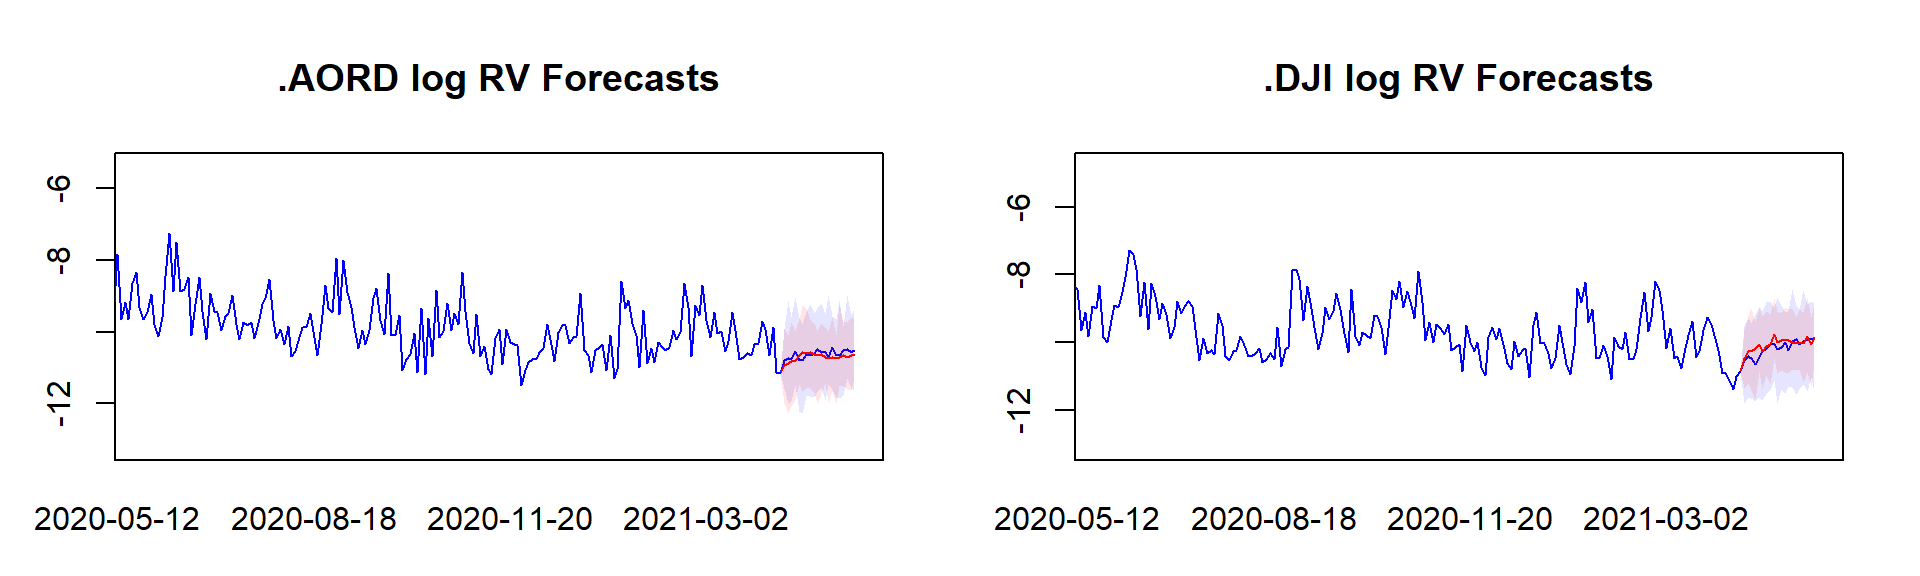
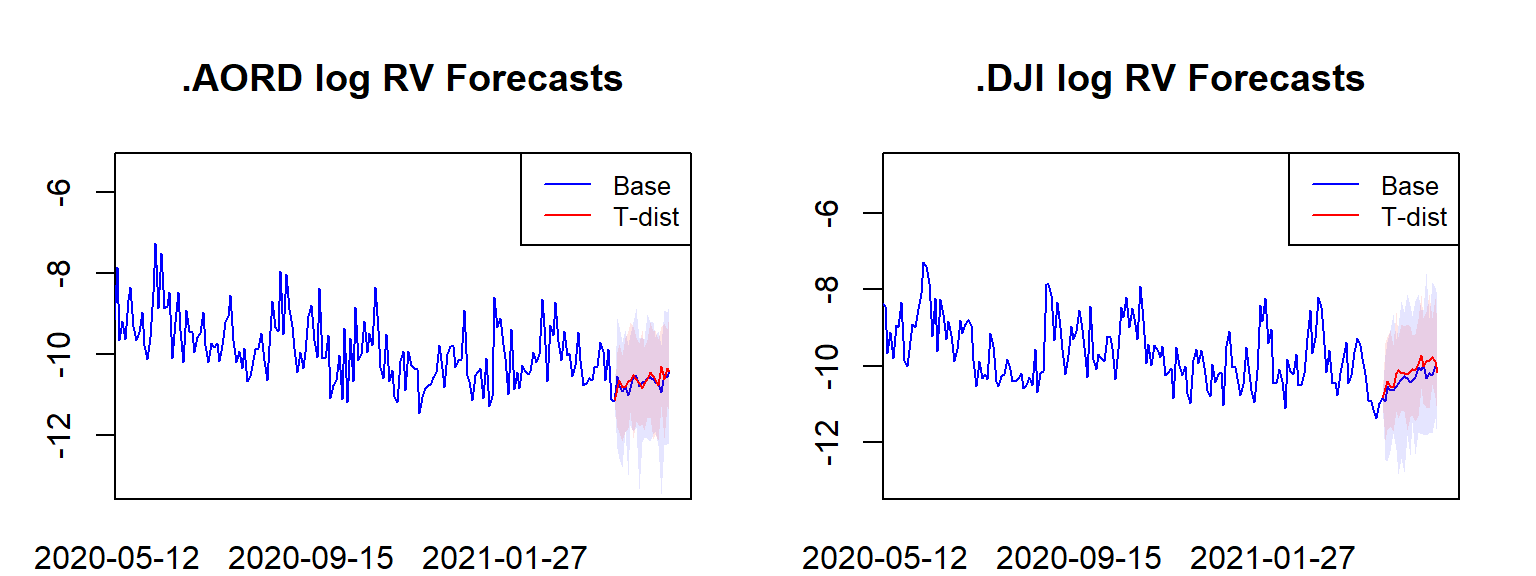
docs - forecast plots, conclusion

diff --git a/docs/index.html b/docs/index.html
@@ -183,7 +183,7 @@ code span.wa { color: #60a0b0; font-weight: bold; font-style: italic; } /* Warni
   <li><a href="#gibbs-sampler-estimation-of-t-distribution-model" id="toc-gibbs-sampler-estimation-of-t-distribution-model" class="nav-link" data-scroll-target="#gibbs-sampler-estimation-of-t-distribution-model">Gibbs Sampler Estimation of T Distribution Model</a></li>
   <li><a href="#gibbs-sampler-estimation-of-sv-t-distribution-model" id="toc-gibbs-sampler-estimation-of-sv-t-distribution-model" class="nav-link" data-scroll-target="#gibbs-sampler-estimation-of-sv-t-distribution-model">Gibbs Sampler Estimation of SV &amp; T Distribution Model</a></li>
   <li><a href="#day-log-rv-forecast-plots" id="toc-day-log-rv-forecast-plots" class="nav-link" data-scroll-target="#day-log-rv-forecast-plots">20 Day log RV Forecast Plots</a></li>
-  <li><a href="#day-rv-forecasts" id="toc-day-rv-forecasts" class="nav-link" data-scroll-target="#day-rv-forecasts">20 day RV Forecasts</a></li>
+  <li><a href="#un-transformed-rv-forecasts" id="toc-un-transformed-rv-forecasts" class="nav-link" data-scroll-target="#un-transformed-rv-forecasts">Un-transformed RV Forecasts</a></li>
   <li><a href="#concluding-remarks" id="toc-concluding-remarks" class="nav-link" data-scroll-target="#concluding-remarks">Concluding Remarks</a></li>
   </ul></li>
   </ul>
@@ -593,16 +593,16 @@ p(\Sigma|Y,X) &amp;= IW_N(\bar{S},\bar{\nu}) \\
 <span id="cb2-32"><a href="#cb2-32" aria-hidden="true" tabindex="-1"></a></span>
 <span id="cb2-33"><a href="#cb2-33" aria-hidden="true" tabindex="-1"></a><span class="fu">round</span>(<span class="fu">apply</span>(res[[<span class="dv">1</span>]],<span class="dv">1</span><span class="sc">:</span><span class="dv">2</span>,mean),<span class="dv">2</span>) <span class="co">#A posterior mean</span></span></code><button title="Copy to Clipboard" class="code-copy-button"><i class="bi"></i></button></pre></div>
 <div class="cell-output cell-output-stdout">
-<pre><code>      [,1]  [,2]
-[1,] -0.12 -0.08
-[2,]  1.00  0.01
-[3,]  0.00  1.00</code></pre>
+<pre><code>     [,1]  [,2]
+[1,] 0.19 -0.02
+[2,] 0.99  0.00
+[3,] 0.00  1.00</code></pre>
 </div>
 <div class="sourceCode cell-code" id="cb4"><pre class="sourceCode r code-with-copy"><code class="sourceCode r"><span id="cb4-1"><a href="#cb4-1" aria-hidden="true" tabindex="-1"></a><span class="fu">round</span>(<span class="fu">apply</span>(res[[<span class="dv">2</span>]],<span class="dv">1</span><span class="sc">:</span><span class="dv">2</span>,mean),<span class="dv">2</span>) <span class="co">#Sigma posterior mean</span></span></code><button title="Copy to Clipboard" class="code-copy-button"><i class="bi"></i></button></pre></div>
 <div class="cell-output cell-output-stdout">
 <pre><code>     [,1] [,2]
-[1,] 1.04 0.02
-[2,] 0.02 0.99</code></pre>
+[1,] 1.00 0.03
+[2,] 0.03 1.02</code></pre>
 </div>
 </div>
 <p>As shown above the estimated parameter means closely match the expected values for the data generating process.</p>
@@ -635,7 +635,9 @@ p(A,\Sigma|Y,X) &amp;\propto L(A,\Sigma,\lambda|Y,X)p(A,\Sigma) \\
 \\
 &amp;= \det(\Sigma)^{-\frac{T+N+K+\underline{\nu}+1}{2}} \det(\lambda I_T)^{-\frac{N}{2}} \\
 
-&amp;\times exp(-\frac{1}{2} tr[\Sigma^{-1}(Y'(\lambda I_T)^{-1}Y - 2A'X'(\lambda I_T)^{-1}Y + A'X'(\lambda I_T)^{-1}XA + A'\underline{V}^{-1}A -2A'\underline{V}^{-1}\underline{A} + \underline{A}'\underline{V}^{-1}\underline{A} + \underline{S})])
+&amp;\times exp(-\frac{1}{2} tr[\Sigma^{-1}(Y'(\lambda I_T)^{-1}Y - 2A'X'(\lambda I_T)^{-1}Y + A'X'(\lambda I_T)^{-1}XA \\
+
+&amp;+ A'\underline{V}^{-1}A -2A'\underline{V}^{-1}\underline{A} + \underline{A}'\underline{V}^{-1}\underline{A} + \underline{S})])
 
 
 \end{align}\]</span>
@@ -728,17 +730,17 @@ p(\lambda|Y,X,A,\Sigma) &amp;\propto L(A,\Sigma,\lambda|Y,X)p(\lambda) \\
 <span id="cb6-44"><a href="#cb6-44" aria-hidden="true" tabindex="-1"></a><span class="co"># A posterior mean</span></span>
 <span id="cb6-45"><a href="#cb6-45" aria-hidden="true" tabindex="-1"></a><span class="fu">round</span>(<span class="fu">apply</span>(tdist_res_rw<span class="sc">$</span>A.posterior.draws, <span class="dv">1</span><span class="sc">:</span><span class="dv">2</span>, mean),<span class="dv">2</span>)</span></code><button title="Copy to Clipboard" class="code-copy-button"><i class="bi"></i></button></pre></div>
 <div class="cell-output cell-output-stdout">
-<pre><code>      [,1]  [,2]
-[1,] -0.12 -0.08
-[2,]  1.00  0.01
-[3,]  0.00  1.00</code></pre>
+<pre><code>     [,1]  [,2]
+[1,] 0.19 -0.02
+[2,] 0.99  0.00
+[3,] 0.00  1.00</code></pre>
 </div>
 <div class="sourceCode cell-code" id="cb8"><pre class="sourceCode r code-with-copy"><code class="sourceCode r"><span id="cb8-1"><a href="#cb8-1" aria-hidden="true" tabindex="-1"></a><span class="co"># Sigma posterior mean</span></span>
 <span id="cb8-2"><a href="#cb8-2" aria-hidden="true" tabindex="-1"></a><span class="fu">round</span>(<span class="fu">apply</span>(tdist_res_rw<span class="sc">$</span>Sigma.posterior.draws, <span class="dv">1</span><span class="sc">:</span><span class="dv">2</span>, mean),<span class="dv">2</span>)</span></code><button title="Copy to Clipboard" class="code-copy-button"><i class="bi"></i></button></pre></div>
 <div class="cell-output cell-output-stdout">
 <pre><code>     [,1] [,2]
-[1,] 1.03 0.02
-[2,] 0.02 0.98</code></pre>
+[1,] 0.99 0.03
+[2,] 0.03 1.01</code></pre>
 </div>
 <div class="sourceCode cell-code" id="cb10"><pre class="sourceCode r code-with-copy"><code class="sourceCode r"><span id="cb10-1"><a href="#cb10-1" aria-hidden="true" tabindex="-1"></a><span class="co"># Lambda posterior mean</span></span>
 <span id="cb10-2"><a href="#cb10-2" aria-hidden="true" tabindex="-1"></a><span class="fu">round</span>(<span class="fu">mean</span>(tdist_res_rw<span class="sc">$</span>lambda.posterior.draws),<span class="dv">2</span>)</span></code><button title="Copy to Clipboard" class="code-copy-button"><i class="bi"></i></button></pre></div>
@@ -973,24 +975,24 @@ p(\lambda|Y,A,\Sigma) &amp;= IG2(\bar{s_{\lambda}},\bar{\nu_{\lambda}}) \\
 <span id="cb12-164"><a href="#cb12-164" aria-hidden="true" tabindex="-1"></a></span>
 <span id="cb12-165"><a href="#cb12-165" aria-hidden="true" tabindex="-1"></a><span class="fu">head</span>(<span class="fu">round</span>(<span class="fu">apply</span>(svres<span class="sc">$</span>A, <span class="dv">1</span><span class="sc">:</span><span class="dv">2</span>, mean),<span class="dv">2</span>))</span></code><button title="Copy to Clipboard" class="code-copy-button"><i class="bi"></i></button></pre></div>
 <div class="cell-output cell-output-stdout">
-<pre><code>      [,1]  [,2]
-[1,] -0.15 -0.14
-[2,]  0.99  0.01
-[3,]  0.00  0.99</code></pre>
+<pre><code>     [,1] [,2]
+[1,] 0.42 0.04
+[2,] 0.97 0.00
+[3,] 0.00 1.00</code></pre>
 </div>
 <div class="sourceCode cell-code" id="cb14"><pre class="sourceCode r code-with-copy"><code class="sourceCode r"><span id="cb14-1"><a href="#cb14-1" aria-hidden="true" tabindex="-1"></a><span class="fu">head</span>(<span class="fu">round</span>(<span class="fu">apply</span>(svres<span class="sc">$</span>Sigma, <span class="dv">1</span><span class="sc">:</span><span class="dv">2</span>, mean),<span class="dv">2</span>))</span></code><button title="Copy to Clipboard" class="code-copy-button"><i class="bi"></i></button></pre></div>
 <div class="cell-output cell-output-stdout">
 <pre><code>      [,1]  [,2]
-[1,]  7.24 -0.23
-[2,] -0.23  7.10</code></pre>
+[1,]  6.70 -0.14
+[2,] -0.14  6.93</code></pre>
 </div>
 <div class="sourceCode cell-code" id="cb16"><pre class="sourceCode r code-with-copy"><code class="sourceCode r"><span id="cb16-1"><a href="#cb16-1" aria-hidden="true" tabindex="-1"></a><span class="fu">round</span>(<span class="fu">mean</span>(svres<span class="sc">$</span>lambda),<span class="dv">2</span>)</span></code><button title="Copy to Clipboard" class="code-copy-button"><i class="bi"></i></button></pre></div>
 <div class="cell-output cell-output-stdout">
-<pre><code>[1] 0.59</code></pre>
+<pre><code>[1] 0.58</code></pre>
 </div>
 <div class="sourceCode cell-code" id="cb18"><pre class="sourceCode r code-with-copy"><code class="sourceCode r"><span id="cb18-1"><a href="#cb18-1" aria-hidden="true" tabindex="-1"></a><span class="fu">round</span>(<span class="fu">mean</span>(svres<span class="sc">$</span>sigma2),<span class="dv">2</span>)</span></code><button title="Copy to Clipboard" class="code-copy-button"><i class="bi"></i></button></pre></div>
 <div class="cell-output cell-output-stdout">
-<pre><code>[1] 0.54</code></pre>
+<pre><code>[1] 0.56</code></pre>
 </div>
 </div>
 </section>
@@ -1028,20 +1030,20 @@ p(\lambda|Y,A,\Sigma) &amp;= IG2(\bar{s_{\lambda}},\bar{\nu_{\lambda}}) \\
 <span id="cb20-21"><a href="#cb20-21" aria-hidden="true" tabindex="-1"></a><span class="fu">head</span>(<span class="fu">round</span>(<span class="fu">apply</span>(res[[<span class="dv">1</span>]],<span class="dv">1</span><span class="sc">:</span><span class="dv">2</span>,mean),<span class="dv">2</span>)) <span class="co">#A posterior mean</span></span></code><button title="Copy to Clipboard" class="code-copy-button"><i class="bi"></i></button></pre></div>
 <div class="cell-output cell-output-stdout">
 <pre><code>      [,1]  [,2]  [,3]  [,4]  [,5]  [,6]  [,7] [,8]  [,9] [,10]
-[1,] -3.18 -0.10 -0.93 -0.76 -0.66 -2.52 -2.01 0.25 -1.63 -1.13
+[1,] -3.18 -0.09 -0.93 -0.76 -0.66 -2.52 -2.00 0.26 -1.62 -1.14
 [2,]  0.21  0.04  0.04  0.08 -0.02  0.02  0.00 0.04 -0.04  0.02
-[3,]  0.08  0.14  0.05  0.07  0.06  0.04  0.05 0.13  0.05  0.07
+[3,]  0.08  0.14  0.05  0.07  0.06  0.04  0.05 0.13  0.04  0.07
 [4,]  0.05  0.05  0.12  0.09  0.10  0.01  0.03 0.06  0.01  0.12
-[5,]  0.10  0.04  0.06  0.11  0.03  0.04  0.02 0.04  0.02  0.04
+[5,]  0.10  0.04  0.06  0.10  0.03  0.04  0.02 0.04  0.01  0.04
 [6,] -0.02  0.06  0.10  0.05  0.17  0.02  0.04 0.05  0.05  0.12</code></pre>
 </div>
 <div class="sourceCode cell-code" id="cb22"><pre class="sourceCode r code-with-copy"><code class="sourceCode r"><span id="cb22-1"><a href="#cb22-1" aria-hidden="true" tabindex="-1"></a><span class="fu">head</span>(<span class="fu">round</span>(<span class="fu">apply</span>(res[[<span class="dv">2</span>]],<span class="dv">1</span><span class="sc">:</span><span class="dv">2</span>,mean),<span class="dv">2</span>)) <span class="co">#Sigma posterior mean</span></span></code><button title="Copy to Clipboard" class="code-copy-button"><i class="bi"></i></button></pre></div>
 <div class="cell-output cell-output-stdout">
 <pre><code>     [,1] [,2] [,3] [,4] [,5] [,6] [,7] [,8]  [,9] [,10]
 [1,] 0.83 0.07 0.08 0.15 0.04 0.06 0.07 0.08 -0.01  0.09
-[2,] 0.07 0.82 0.17 0.19 0.18 0.08 0.08 0.42  0.09  0.19
+[2,] 0.07 0.83 0.17 0.19 0.18 0.08 0.08 0.42  0.09  0.19
 [3,] 0.08 0.17 0.51 0.19 0.24 0.05 0.06 0.18  0.05  0.26
-[4,] 0.15 0.19 0.19 0.65 0.18 0.07 0.07 0.19  0.05  0.24
+[4,] 0.15 0.19 0.19 0.64 0.18 0.07 0.07 0.19  0.05  0.24
 [5,] 0.04 0.18 0.24 0.18 0.58 0.05 0.07 0.18  0.07  0.28
 [6,] 0.06 0.08 0.05 0.07 0.05 0.56 0.09 0.08  0.12  0.04</code></pre>
 </div>
@@ -1055,26 +1057,26 @@ p(\lambda|Y,A,\Sigma) &amp;= IG2(\bar{s_{\lambda}},\bar{\nu_{\lambda}}) \\
 <span id="cb24-3"><a href="#cb24-3" aria-hidden="true" tabindex="-1"></a><span class="fu">head</span>(<span class="fu">round</span>(<span class="fu">apply</span>(tres<span class="sc">$</span>A.posterior.draws, <span class="dv">1</span><span class="sc">:</span><span class="dv">2</span>, mean),<span class="dv">2</span>))</span></code><button title="Copy to Clipboard" class="code-copy-button"><i class="bi"></i></button></pre></div>
 <div class="cell-output cell-output-stdout">
 <pre><code>      [,1]  [,2]  [,3]  [,4]  [,5]  [,6]  [,7]  [,8]  [,9] [,10]
-[1,] -4.61 -1.27 -2.07 -2.00 -1.64 -3.96 -3.35 -0.99 -3.02 -2.04
+[1,] -4.61 -1.26 -1.92 -1.98 -1.56 -3.95 -3.29 -0.90 -2.95 -2.02
 [2,]  0.12  0.04  0.04  0.06  0.01  0.02  0.01  0.04 -0.01  0.03
-[3,]  0.05  0.10  0.06  0.07  0.06  0.04  0.05  0.10  0.05  0.06
-[4,]  0.04  0.05  0.08  0.06  0.08  0.02  0.03  0.06  0.02  0.08
-[5,]  0.07  0.05  0.06  0.08  0.05  0.03  0.03  0.06  0.02  0.06
-[6,]  0.02  0.06  0.07  0.06  0.10  0.03  0.04  0.06  0.05  0.08</code></pre>
+[3,]  0.06  0.10  0.06  0.07  0.06  0.04  0.05  0.10  0.05  0.06
+[4,]  0.04  0.05  0.08  0.07  0.08  0.02  0.03  0.06  0.02  0.08
+[5,]  0.07  0.05  0.06  0.07  0.05  0.03  0.03  0.06  0.02  0.05
+[6,]  0.01  0.06  0.07  0.05  0.10  0.02  0.04  0.06  0.04  0.08</code></pre>
 </div>
 <div class="sourceCode cell-code" id="cb26"><pre class="sourceCode r code-with-copy"><code class="sourceCode r"><span id="cb26-1"><a href="#cb26-1" aria-hidden="true" tabindex="-1"></a><span class="fu">head</span>(<span class="fu">round</span>(<span class="fu">apply</span>(tres<span class="sc">$</span>Sigma.posterior.draws, <span class="dv">1</span><span class="sc">:</span><span class="dv">2</span>, mean),<span class="dv">2</span>))</span></code><button title="Copy to Clipboard" class="code-copy-button"><i class="bi"></i></button></pre></div>
 <div class="cell-output cell-output-stdout">
 <pre><code>     [,1] [,2] [,3] [,4] [,5] [,6] [,7] [,8] [,9] [,10]
-[1,] 0.49 0.03 0.04 0.06 0.02 0.02 0.03 0.04 0.00  0.04
-[2,] 0.03 0.52 0.06 0.07 0.07 0.04 0.04 0.14 0.04  0.07
-[3,] 0.04 0.06 0.31 0.07 0.09 0.02 0.03 0.07 0.02  0.09
-[4,] 0.06 0.07 0.07 0.40 0.07 0.03 0.03 0.07 0.02  0.08
-[5,] 0.02 0.07 0.09 0.07 0.36 0.03 0.04 0.07 0.04  0.10
+[1,] 0.50 0.03 0.04 0.06 0.02 0.02 0.03 0.04 0.00  0.04
+[2,] 0.03 0.52 0.07 0.08 0.07 0.04 0.04 0.14 0.04  0.07
+[3,] 0.04 0.07 0.32 0.07 0.09 0.02 0.03 0.07 0.02  0.09
+[4,] 0.06 0.08 0.07 0.41 0.07 0.03 0.03 0.08 0.02  0.09
+[5,] 0.02 0.07 0.09 0.07 0.36 0.03 0.03 0.07 0.04  0.10
 [6,] 0.02 0.04 0.02 0.03 0.03 0.33 0.04 0.04 0.05  0.02</code></pre>
 </div>
 <div class="sourceCode cell-code" id="cb28"><pre class="sourceCode r code-with-copy"><code class="sourceCode r"><span id="cb28-1"><a href="#cb28-1" aria-hidden="true" tabindex="-1"></a><span class="fu">round</span>(<span class="fu">mean</span>(tres<span class="sc">$</span>lambda.posterior.draws),<span class="dv">2</span>)</span></code><button title="Copy to Clipboard" class="code-copy-button"><i class="bi"></i></button></pre></div>
 <div class="cell-output cell-output-stdout">
-<pre><code>[1] 4</code></pre>
+<pre><code>[1] 3.94</code></pre>
 </div>
 </div>
 </section>
@@ -1104,30 +1106,30 @@ p(\lambda|Y,A,\Sigma) &amp;= IG2(\bar{s_{\lambda}},\bar{\nu_{\lambda}}) \\
 <span id="cb30-21"><a href="#cb30-21" aria-hidden="true" tabindex="-1"></a><span class="fu">head</span>(<span class="fu">round</span>(<span class="fu">apply</span>(svres<span class="sc">$</span>A, <span class="dv">1</span><span class="sc">:</span><span class="dv">2</span>, mean),<span class="dv">2</span>))</span></code><button title="Copy to Clipboard" class="code-copy-button"><i class="bi"></i></button></pre></div>
 <div class="cell-output cell-output-stdout">
 <pre><code>      [,1]  [,2]  [,3]  [,4]  [,5]  [,6]  [,7]  [,8]  [,9] [,10]
-[1,] -6.50 -3.75 -3.79 -4.08 -3.46 -5.88 -5.16 -3.46 -5.07 -3.84
-[2,]  0.08  0.03  0.03  0.04  0.01  0.01  0.00  0.03 -0.02  0.02
-[3,]  0.04  0.07  0.04  0.05  0.04  0.03  0.03  0.07  0.03  0.05
-[4,]  0.03  0.05  0.06  0.05  0.06  0.02  0.02  0.05  0.01  0.06
-[5,]  0.05  0.04  0.05  0.05  0.04  0.02  0.02  0.04  0.02  0.04
-[6,]  0.01  0.04  0.06  0.04  0.08  0.02  0.03  0.04  0.03  0.06</code></pre>
+[1,] -6.45 -3.70 -3.78 -4.18 -3.56 -5.84 -5.20 -3.47 -5.12 -3.88
+[2,]  0.08  0.03  0.03  0.05  0.01  0.01  0.01  0.03 -0.02  0.02
+[3,]  0.04  0.07  0.05  0.05  0.05  0.03  0.04  0.07  0.03  0.05
+[4,]  0.03  0.04  0.06  0.05  0.06  0.02  0.02  0.04  0.01  0.06
+[5,]  0.05  0.04  0.05  0.06  0.03  0.02  0.02  0.04  0.02  0.04
+[6,]  0.01  0.04  0.06  0.04  0.08  0.02  0.03  0.05  0.03  0.06</code></pre>
 </div>
 <div class="sourceCode cell-code" id="cb32"><pre class="sourceCode r code-with-copy"><code class="sourceCode r"><span id="cb32-1"><a href="#cb32-1" aria-hidden="true" tabindex="-1"></a><span class="fu">head</span>(<span class="fu">round</span>(<span class="fu">apply</span>(svres<span class="sc">$</span>Sigma, <span class="dv">1</span><span class="sc">:</span><span class="dv">2</span>, mean),<span class="dv">2</span>))</span></code><button title="Copy to Clipboard" class="code-copy-button"><i class="bi"></i></button></pre></div>
 <div class="cell-output cell-output-stdout">
 <pre><code>     [,1] [,2] [,3] [,4] [,5] [,6] [,7] [,8] [,9] [,10]
-[1,] 0.36 0.02 0.02 0.03 0.01 0.01 0.01 0.02 0.00  0.02
-[2,] 0.02 0.38 0.04 0.05 0.04 0.02 0.02 0.09 0.02  0.05
+[1,] 0.36 0.02 0.02 0.04 0.01 0.01 0.01 0.02 0.00  0.02
+[2,] 0.02 0.38 0.04 0.05 0.04 0.02 0.02 0.09 0.03  0.04
 [3,] 0.02 0.04 0.23 0.05 0.06 0.01 0.02 0.04 0.01  0.06
-[4,] 0.03 0.05 0.05 0.29 0.04 0.02 0.02 0.05 0.01  0.06
+[4,] 0.04 0.05 0.05 0.29 0.04 0.02 0.02 0.05 0.01  0.05
 [5,] 0.01 0.04 0.06 0.04 0.26 0.02 0.02 0.04 0.02  0.06
 [6,] 0.01 0.02 0.01 0.02 0.02 0.24 0.02 0.02 0.03  0.01</code></pre>
 </div>
 <div class="sourceCode cell-code" id="cb34"><pre class="sourceCode r code-with-copy"><code class="sourceCode r"><span id="cb34-1"><a href="#cb34-1" aria-hidden="true" tabindex="-1"></a><span class="fu">round</span>(<span class="fu">mean</span>(svres<span class="sc">$</span>lambda),<span class="dv">2</span>)</span></code><button title="Copy to Clipboard" class="code-copy-button"><i class="bi"></i></button></pre></div>
 <div class="cell-output cell-output-stdout">
-<pre><code>[1] 1.45</code></pre>
+<pre><code>[1] 1.41</code></pre>
 </div>
 <div class="sourceCode cell-code" id="cb36"><pre class="sourceCode r code-with-copy"><code class="sourceCode r"><span id="cb36-1"><a href="#cb36-1" aria-hidden="true" tabindex="-1"></a><span class="fu">round</span>(<span class="fu">mean</span>(svres<span class="sc">$</span>sigma2),<span class="dv">2</span>)</span></code><button title="Copy to Clipboard" class="code-copy-button"><i class="bi"></i></button></pre></div>
 <div class="cell-output cell-output-stdout">
-<pre><code>[1] 9.76</code></pre>
+<pre><code>[1] 9.96</code></pre>
 </div>
 </div>
 <p>We can then compute forecasts for all models by sampling from the predictive densities. For each draw of <span class="math inline">\(A\)</span> and <span class="math inline">\(\Sigma\)</span>, we sample h times from the predictive density in order to compute a forecast horizon of h periods. Each of the h draws are computed as 1 period ahead forecasts. Where the predictive density requires data which has not yet been observed this is replaced by the preceding forecasts computed within the same iteration.</p>
@@ -1195,73 +1197,109 @@ p(\lambda|Y,A,\Sigma) &amp;= IG2(\bar{s_{\lambda}},\bar{\nu_{\lambda}}) \\
 <span id="cb38-61"><a href="#cb38-61" aria-hidden="true" tabindex="-1"></a>}</span>
 <span id="cb38-62"><a href="#cb38-62" aria-hidden="true" tabindex="-1"></a></span>
 <span id="cb38-63"><a href="#cb38-63" aria-hidden="true" tabindex="-1"></a>preds_base <span class="ot">=</span> <span class="fu">get_predictions</span>(<span class="dv">50</span>, <span class="dv">20</span>, res[[<span class="dv">1</span>]], res[[<span class="dv">2</span>]])</span>
-<span id="cb38-64"><a href="#cb38-64" aria-hidden="true" tabindex="-1"></a>preds_base <span class="ot">=</span> <span class="fu">get_predictions</span>(<span class="dv">50</span>, <span class="dv">20</span>, tres<span class="sc">$</span>A.posterior.draws, tres<span class="sc">$</span>Sigma.posterior.draws)</span>
-<span id="cb38-65"><a href="#cb38-65" aria-hidden="true" tabindex="-1"></a>preds_ext <span class="ot">=</span> <span class="fu">get_predictions</span>(<span class="dv">50</span>, <span class="dv">20</span>, svres<span class="sc">$</span>A, svres<span class="sc">$</span>Sigma)</span></code><button title="Copy to Clipboard" class="code-copy-button"><i class="bi"></i></button></pre></div>
+<span id="cb38-64"><a href="#cb38-64" aria-hidden="true" tabindex="-1"></a>preds_t <span class="ot">=</span> <span class="fu">get_predictions</span>(<span class="dv">50</span>, <span class="dv">20</span>, tres<span class="sc">$</span>A.posterior.draws, tres<span class="sc">$</span>Sigma.posterior.draws)</span>
+<span id="cb38-65"><a href="#cb38-65" aria-hidden="true" tabindex="-1"></a>preds_sv <span class="ot">=</span> <span class="fu">get_predictions</span>(<span class="dv">50</span>, <span class="dv">20</span>, svres<span class="sc">$</span>A, svres<span class="sc">$</span>Sigma)</span></code><button title="Copy to Clipboard" class="code-copy-button"><i class="bi"></i></button></pre></div>
 </div>
-<p>The respective out of sample forecasts for 20 days ahead are plotted below. The forecasts from the baseline model are plotted in blue and the T-distributed error model forecasts are plotted in red. 90% confidence intervals are denoted by the shaded regions.</p>
+<p>The respective out of sample forecasts for 20 days ahead are plotted below. The first set of plots compare the Baseline model to the T-Distribution model. The two extended models are then compared against one another. 90% confidence intervals are denoted by the shaded regions.</p>
 </section>
 <section id="day-log-rv-forecast-plots" class="level3">
 <h3 class="anchored" data-anchor-id="day-log-rv-forecast-plots">20 Day log RV Forecast Plots</h3>
 <div class="cell">
-<div class="sourceCode cell-code" id="cb39"><pre class="sourceCode r code-with-copy"><code class="sourceCode r"><span id="cb39-1"><a href="#cb39-1" aria-hidden="true" tabindex="-1"></a><span class="co">#Plotting function</span></span>
-<span id="cb39-2"><a href="#cb39-2" aria-hidden="true" tabindex="-1"></a></span>
-<span id="cb39-3"><a href="#cb39-3" aria-hidden="true" tabindex="-1"></a>plot_pred <span class="ot">=</span> <span class="cf">function</span>(ix, preds, preds2){</span>
-<span id="cb39-4"><a href="#cb39-4" aria-hidden="true" tabindex="-1"></a>  h<span class="ot">=</span><span class="fu">length</span>(preds[[<span class="dv">1</span>]][[<span class="dv">1</span>]])</span>
-<span id="cb39-5"><a href="#cb39-5" aria-hidden="true" tabindex="-1"></a>  xdates <span class="ot">=</span> <span class="fu">c</span>(y<span class="sc">$</span>Date, <span class="fu">seq</span>(y[<span class="fu">length</span>(y[,<span class="dv">1</span>]),<span class="st">'Date'</span>], <span class="at">by=</span><span class="st">'day'</span>, <span class="at">length.out=</span>h<span class="sc">-</span>p))</span>
-<span id="cb39-6"><a href="#cb39-6" aria-hidden="true" tabindex="-1"></a>  </span>
-<span id="cb39-7"><a href="#cb39-7" aria-hidden="true" tabindex="-1"></a>  index_name <span class="ot">=</span> <span class="fu">colnames</span>(Y_ext)[ix]</span>
-<span id="cb39-8"><a href="#cb39-8" aria-hidden="true" tabindex="-1"></a>  <span class="fu">plot</span>(<span class="dv">1</span><span class="sc">:</span>(<span class="fu">length</span>(Y_ext[,ix])<span class="sc">+</span>h), (<span class="fu">c</span>(Y_ext[,ix], preds[[<span class="dv">1</span>]][[ix]])), <span class="at">type=</span><span class="st">'l'</span>, <span class="at">col=</span><span class="st">'blue'</span>, <span class="at">ylab=</span><span class="st">''</span>, <span class="at">xlab=</span><span class="st">''</span>, <span class="at">main=</span><span class="fu">paste</span>(index_name,<span class="st">'log RV Forecasts'</span>), <span class="at">xlim=</span><span class="fu">c</span>(<span class="dv">4300</span>,<span class="fu">length</span>(Y_ext[,ix])<span class="sc">+</span>h), <span class="at">xaxt=</span><span class="st">'n'</span>, <span class="at">cex.axis=</span><span class="dv">1</span>, <span class="at">lwd=</span><span class="dv">1</span>)</span>
-<span id="cb39-9"><a href="#cb39-9" aria-hidden="true" tabindex="-1"></a>  <span class="fu">polygon</span>(<span class="fu">c</span>((<span class="fu">length</span>(Y_ext[,ix]))<span class="sc">:</span>(<span class="fu">length</span>(Y_ext[,ix])<span class="sc">+</span>h), (<span class="fu">length</span>(Y_ext[,ix])<span class="sc">+</span>h)<span class="sc">:</span>(<span class="fu">length</span>(Y_ext[,ix]))), (<span class="fu">c</span>(Y_ext[<span class="fu">length</span>(Y_ext[,ix]),ix], preds[[<span class="dv">2</span>]][[ix]][<span class="st">'lower'</span>,], preds[[<span class="dv">2</span>]][[ix]][<span class="st">'upper'</span>,h<span class="sc">:</span><span class="dv">1</span>], Y_ext[<span class="fu">length</span>(Y_ext[,ix]),ix])), <span class="at">col=</span><span class="fu">rgb</span>(<span class="dv">0</span>, <span class="dv">0</span>, <span class="dv">1</span>,<span class="fl">0.1</span>), <span class="at">border=</span><span class="cn">NA</span>)</span>
-<span id="cb39-10"><a href="#cb39-10" aria-hidden="true" tabindex="-1"></a>  <span class="fu">lines</span>((<span class="fu">c</span>(Y_ext[,ix], preds2[[<span class="dv">1</span>]][[ix]])), <span class="at">type=</span><span class="st">'l'</span>, <span class="at">col=</span><span class="st">'red'</span>, <span class="at">ylab=</span><span class="st">''</span>, <span class="at">xlab=</span><span class="st">''</span>, <span class="at">main=</span><span class="fu">paste</span>(index_name,<span class="st">'log RV Forecasts'</span>), <span class="at">xlim=</span><span class="fu">c</span>(<span class="dv">4300</span>,<span class="fu">length</span>(Y_ext[,ix])<span class="sc">+</span>h), <span class="at">xaxt=</span><span class="st">'n'</span>, <span class="at">cex.axis=</span><span class="dv">1</span>, <span class="at">lwd=</span><span class="dv">1</span>)</span>
-<span id="cb39-11"><a href="#cb39-11" aria-hidden="true" tabindex="-1"></a>  <span class="fu">lines</span>(Y_ext[,ix], <span class="at">type=</span><span class="st">'l'</span>, <span class="at">col=</span><span class="st">'blue'</span>)</span>
-<span id="cb39-12"><a href="#cb39-12" aria-hidden="true" tabindex="-1"></a>  <span class="fu">polygon</span>(<span class="fu">c</span>((<span class="fu">length</span>(Y_ext[,ix]))<span class="sc">:</span>(<span class="fu">length</span>(Y_ext[,ix])<span class="sc">+</span>h), (<span class="fu">length</span>(Y_ext[,ix])<span class="sc">+</span>h)<span class="sc">:</span>(<span class="fu">length</span>(Y_ext[,ix]))), (<span class="fu">c</span>(Y_ext[<span class="fu">length</span>(Y_ext[,ix]),ix], preds2[[<span class="dv">2</span>]][[ix]][<span class="st">'lower'</span>,], preds2[[<span class="dv">2</span>]][[ix]][<span class="st">'upper'</span>,h<span class="sc">:</span><span class="dv">1</span>], Y_ext[<span class="fu">length</span>(Y_ext[,ix]),ix])), <span class="at">col=</span><span class="fu">rgb</span>(<span class="dv">1</span>, <span class="dv">0</span>, <span class="dv">0</span>,<span class="fl">0.1</span>), <span class="at">border=</span><span class="cn">NA</span>)</span>
-<span id="cb39-13"><a href="#cb39-13" aria-hidden="true" tabindex="-1"></a>  <span class="fu">axis</span>(<span class="dv">1</span>, <span class="at">at=</span><span class="dv">1</span><span class="sc">:</span>(<span class="fu">length</span>(Y_ext[,ix])<span class="sc">+</span>h), <span class="at">labels=</span>xdates, <span class="at">tick=</span><span class="cn">FALSE</span>, <span class="at">cex.axis=</span><span class="dv">1</span>)</span>
-<span id="cb39-14"><a href="#cb39-14" aria-hidden="true" tabindex="-1"></a>}</span></code><button title="Copy to Clipboard" class="code-copy-button"><i class="bi"></i></button></pre></div>
+
 </div>
+<section id="baseline-model-vs-t-distribution-model" class="level4">
+<h4 class="anchored" data-anchor-id="baseline-model-vs-t-distribution-model">Baseline model vs T Distribution Model</h4>
 <div class="cell">
 <div class="cell-output-display">
-<p><img src="index_files/figure-html/unnamed-chunk-15-1.png" class="img-fluid" width="960"></p>
+<p><img src="index_files/figure-html/unnamed-chunk-15-1.png" class="img-fluid" width="768"></p>
 </div>
 <div class="cell-output-display">
-<p><img src="index_files/figure-html/unnamed-chunk-15-2.png" class="img-fluid" width="960"></p>
+<p><img src="index_files/figure-html/unnamed-chunk-15-2.png" class="img-fluid" width="768"></p>
 </div>
 <div class="cell-output-display">
-<p><img src="index_files/figure-html/unnamed-chunk-15-3.png" class="img-fluid" width="960"></p>
+<p><img src="index_files/figure-html/unnamed-chunk-15-3.png" class="img-fluid" width="768"></p>
 </div>
 <div class="cell-output-display">
-<p><img src="index_files/figure-html/unnamed-chunk-15-4.png" class="img-fluid" width="960"></p>
+<p><img src="index_files/figure-html/unnamed-chunk-15-4.png" class="img-fluid" width="768"></p>
 </div>
 <div class="cell-output-display">
-<p><img src="index_files/figure-html/unnamed-chunk-15-5.png" class="img-fluid" width="960"></p>
+<p><img src="index_files/figure-html/unnamed-chunk-15-5.png" class="img-fluid" width="768"></p>
 </div>
 </div>
-<p>As can be seen by the point forecasts, both model forecasts appear to converge back to a long term average. The forecasts trend higher over the forecast period for all variables, which might be explained as the model predicting volatility will normalise at a higher long run level after a period of relatively low volatility leading up to the forecast period. Forecasts in the T-distribution model appear to move back to the long run mean more quickly than that of the baseline model, suggesting faster mean reversion.</p>
-<p>Comparing the confidence intervals of the two models, we can see that the T-distribution model has tighter 90% CIs for all forecasts. This may suggest that our assumption of T-distributed errors is appropriate. If the data has fatter tails than would be captured by a Normal distribution this may have been leading to larger variances estimated by the baseline model. The extended model allows for outliers in the data and therefore estimates the variance more accurately, leading to tighter intervals.</p>
-<p>We can transform the variables and forecasts back into daily RVs by taking the exponent of the variables. Visually the forecasts seem reasonable given the historical data, with the forecasts again reverting towards the long term average. The confidence intervals also look sensible given the transformation back to levels, with the width of the band increasing as the forecasted RV increases as we would expect from the transformation. Again the T-Distribution model exhibits tighter CIs.</p>
 </section>
-<section id="day-rv-forecasts" class="level3">
-<h3 class="anchored" data-anchor-id="day-rv-forecasts">20 day RV Forecasts</h3>
+<section id="t-distribution-model-vs-sv-model" class="level4">
+<h4 class="anchored" data-anchor-id="t-distribution-model-vs-sv-model">T Distribution Model vs SV Model</h4>
 <div class="cell">
 <div class="cell-output-display">
-<p><img src="index_files/figure-html/unnamed-chunk-16-1.png" class="img-fluid" width="960"></p>
+<p><img src="index_files/figure-html/unnamed-chunk-16-1.png" class="img-fluid" width="768"></p>
 </div>
 <div class="cell-output-display">
-<p><img src="index_files/figure-html/unnamed-chunk-16-2.png" class="img-fluid" width="960"></p>
+<p><img src="index_files/figure-html/unnamed-chunk-16-2.png" class="img-fluid" width="768"></p>
 </div>
 <div class="cell-output-display">
-<p><img src="index_files/figure-html/unnamed-chunk-16-3.png" class="img-fluid" width="960"></p>
+<p><img src="index_files/figure-html/unnamed-chunk-16-3.png" class="img-fluid" width="768"></p>
 </div>
 <div class="cell-output-display">
-<p><img src="index_files/figure-html/unnamed-chunk-16-4.png" class="img-fluid" width="960"></p>
+<p><img src="index_files/figure-html/unnamed-chunk-16-4.png" class="img-fluid" width="768"></p>
 </div>
 <div class="cell-output-display">
-<p><img src="index_files/figure-html/unnamed-chunk-16-5.png" class="img-fluid" width="960"></p>
+<p><img src="index_files/figure-html/unnamed-chunk-16-5.png" class="img-fluid" width="768"></p>
 </div>
 </div>
+<p>As can be seen by the point forecasts, all model forecasts appear to converge back to a long term average. The forecasts trend higher over the forecast period for all variables, which might be explained as the model predicting volatility will normalise at a higher long run level after a period of relatively low volatility leading up to the forecast period. Forecasts in the T-distribution and Stochastic Volatility models appear to move back to the long run mean more quickly than that of the baseline model, suggesting faster mean reversion.</p>
+<p>Comparing the confidence intervals of the models, we can see that the extended models have tighter 90% confidence intervals for all forecasts. This appears to suggest that our modifications to the model are appropriate and lead to increased forecasting power.</p>
+<p>If the data has fatter tails than would be captured by a Normal distribution this may have been leading to larger variances estimated by the baseline model. The extended model allows for outliers in the data and therefore estimates the variance more accurately, leading to tighter intervals.</p>
+<p>Likewise the further extension to include stochastic volatility is apt to capture time varying heteroskedasticity in the model. In general, the CIs for the SV model appear slightly tigher than that of the T-distribution model alone, suggesting some slight gain from the extension.</p>
+<p>We can transform the variables and forecasts back into daily RVs by taking the exponent of the variables. Visually the forecasts seem reasonable given the historical data, with the forecasts again reverting towards the long term average. The confidence intervals also look sensible given the transformation back to levels, with the width of the band increasing as the forecasted RV increases as we would expect from the transformation. Again the extended models outperform the baseline model in terms of CI width.</p>
+</section>
+</section>
+<section id="un-transformed-rv-forecasts" class="level3">
+<h3 class="anchored" data-anchor-id="un-transformed-rv-forecasts">Un-transformed RV Forecasts</h3>
+<section id="baseline-model-vs-t-distribution-model-1" class="level4">
+<h4 class="anchored" data-anchor-id="baseline-model-vs-t-distribution-model-1">Baseline Model vs T Distribution Model</h4>
+<div class="cell">
+<div class="cell-output-display">
+<p><img src="index_files/figure-html/unnamed-chunk-17-1.png" class="img-fluid" width="768"></p>
+</div>
+<div class="cell-output-display">
+<p><img src="index_files/figure-html/unnamed-chunk-17-2.png" class="img-fluid" width="768"></p>
+</div>
+<div class="cell-output-display">
+<p><img src="index_files/figure-html/unnamed-chunk-17-3.png" class="img-fluid" width="768"></p>
+</div>
+<div class="cell-output-display">
+<p><img src="index_files/figure-html/unnamed-chunk-17-4.png" class="img-fluid" width="768"></p>
+</div>
+<div class="cell-output-display">
+<p><img src="index_files/figure-html/unnamed-chunk-17-5.png" class="img-fluid" width="768"></p>
+</div>
+</div>
+</section>
+<section id="t-distribution-model-vs-sv-model-1" class="level4">
+<h4 class="anchored" data-anchor-id="t-distribution-model-vs-sv-model-1">T Distribution Model vs SV Model</h4>
+<div class="cell">
+<div class="cell-output-display">
+<p><img src="index_files/figure-html/unnamed-chunk-18-1.png" class="img-fluid" width="768"></p>
+</div>
+<div class="cell-output-display">
+<p><img src="index_files/figure-html/unnamed-chunk-18-2.png" class="img-fluid" width="768"></p>
+</div>
+<div class="cell-output-display">
+<p><img src="index_files/figure-html/unnamed-chunk-18-3.png" class="img-fluid" width="768"></p>
+</div>
+<div class="cell-output-display">
+<p><img src="index_files/figure-html/unnamed-chunk-18-4.png" class="img-fluid" width="768"></p>
+</div>
+<div class="cell-output-display">
+<p><img src="index_files/figure-html/unnamed-chunk-18-5.png" class="img-fluid" width="768"></p>
+</div>
+</div>
+</section>
 </section>
 <section id="concluding-remarks" class="level2">
 <h2 class="anchored" data-anchor-id="concluding-remarks">Concluding Remarks</h2>
-<p>As illustrated in the above plots,</p>
+<p>Overall the resulting forecast plots of the three competing models are encouraging with regard to the suitability of applying Bayesian techniques to volatility data. The forecasting gains made from simple amendments to the model specification make intuitive sense. They support our prior expectation that RV data is appropriately modeled by heteroskastic non-normal specifications. One can imagine further extensions which would even further dial in the predictive ability of an RV BVAR.</p>
+<p>This study highlights that Bayesian estimation techniques can be readily modified in order to explore different options for a given modelling application. It is relatively straightforward to build extensions into a simple model and further extensions to this analysis are worth future exploration.</p>
 
 
 </section>
